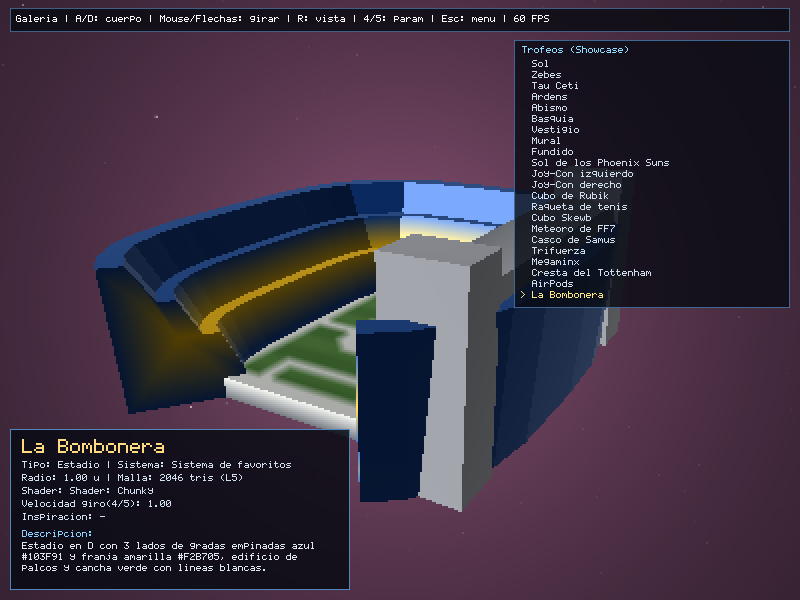
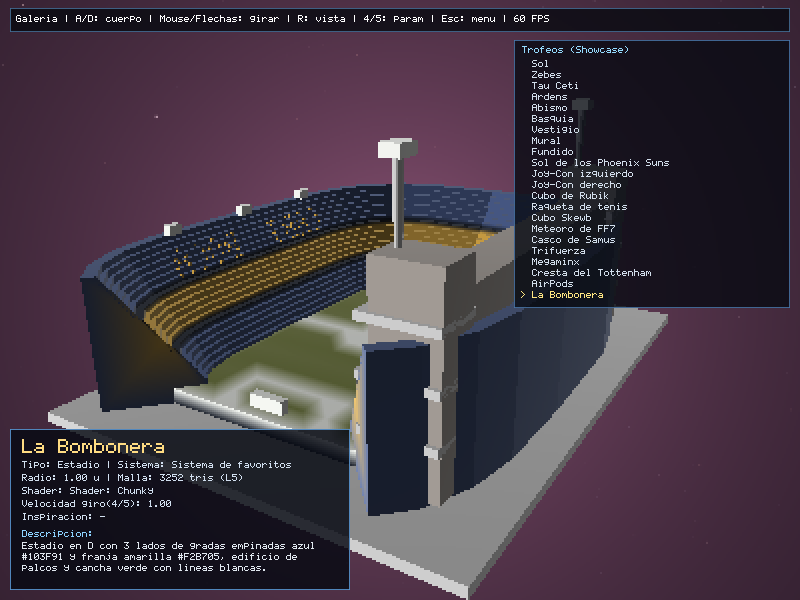
docs(readme): Actualizar las descripciones del casco de Samus y de La Bombonera y regenerar sus capturas.

Changed region(s): [[0.0625, 0.21, 0.8438, 1.0], [0.7188, 0.15, 0.75, 0.24]]

diff --git a/docs/arquitectura.md b/docs/arquitectura.md
@@ -32,5 +32,5 @@
   - **Cresta del Tottenham** (`Shader::Spurs`): silueta del gallo medida desde `refs/spurs_crest.jpg` extruida con bisel y sombreado chunky en 3 bandas sobre un balón 3D azul marino (`#001C58`) con costuras blancas, parche de cordones y oscilación `±35°` (`1300` tris en detalle máximo).
   - **AirPods** (`Shader::Chunky`): estuche redondeado (`~2.8:2.1:1`) con tapa a 70°, bisagra cilíndrica, LED frontal y auriculares espejados.
   - **Raqueta de tenis** (`Shader::Chunky` con barniz `material_id = 1`): Wilson Ultra medida desde `refs/raqueta.webp` (`docs/medidas-raqueta.md`), aro barrido con sección rectangular redondeada (`#61A4C5`→`#4C789E` y marino `#2D313C`), garganta en Y con puente, mango octogonal gris carbón con envoltura diagonal y cuerdas `11×13` de asteroides octaédricos alargados con el logo `W` rojo (`#C8261E`).
-  - **Casco de Samus** (`Shader::Chunky` con visor emisivo `material_id = 2`): domo terracota con franjas oscuras, visor angular verde menta emisivo con brillo animado suave, orejeras con luz, rejillas bucales y tubos hacia el anillo del cuello.
-  - **La Bombonera** (`Shader::Chunky`): estadio en D con 3 lados de gradas empinadas azul `#103F91` y franja amarilla `#F2B705`, edificio de palcos grises con torres y cancha verde con líneas blancas por color de vértice (tazón liso en nivel bajo).
+  - **Casco de Samus** (`Shader::Chunky` con barniz `material_id = 1` y visor emisivo `material_id = 2`): cúpula terracota `#AC6A52` ajustada al perfil radial medido de `refs/samus_helmet.jpg`, 3 surcos oscuros `#4C322C` adelgazados con Zhang–Suen, visor angular medido de 20 vértices (`#ECFEE6`/`#507B38`), barbilla con 3 rendijas, orejeras simétricas y mangueras acanaladas (`2412` tris en L5).
+  - **La Bombonera** (`Shader::Chunky`): herradura en D de 3 niveles escalonados empinados (`#455681` / `#C49940`, proporciones medidas `30.6%`/`32.4%`/`37.0%`, tazón liso en `L0`), letras `"CABJ"` y `"BOCA"` con la fuente `5×7` del HUD, palcos grises con ventanas `12×6`, torres con balcones, torres de luces, zócalo y campo `105:68` a 14 franjas con líneas y arcos (`3252` tris en L5).
